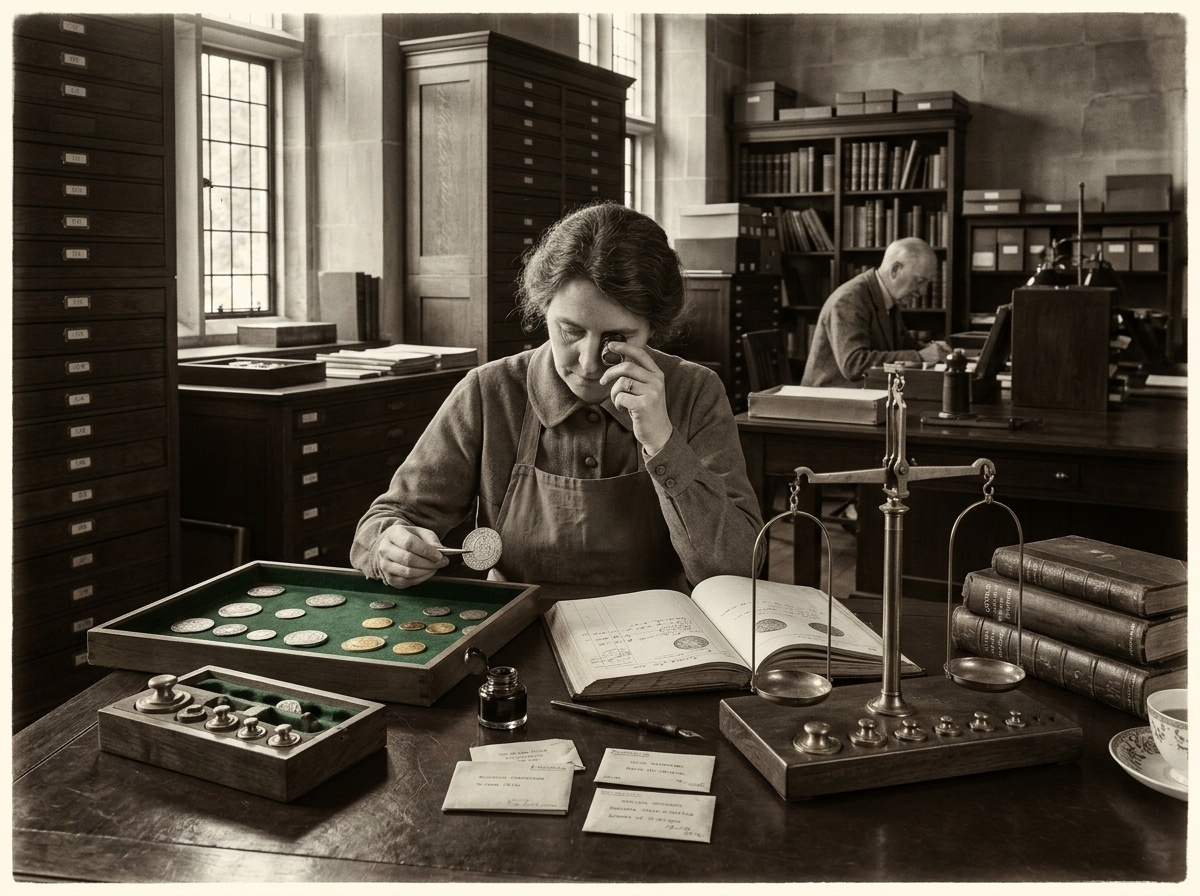
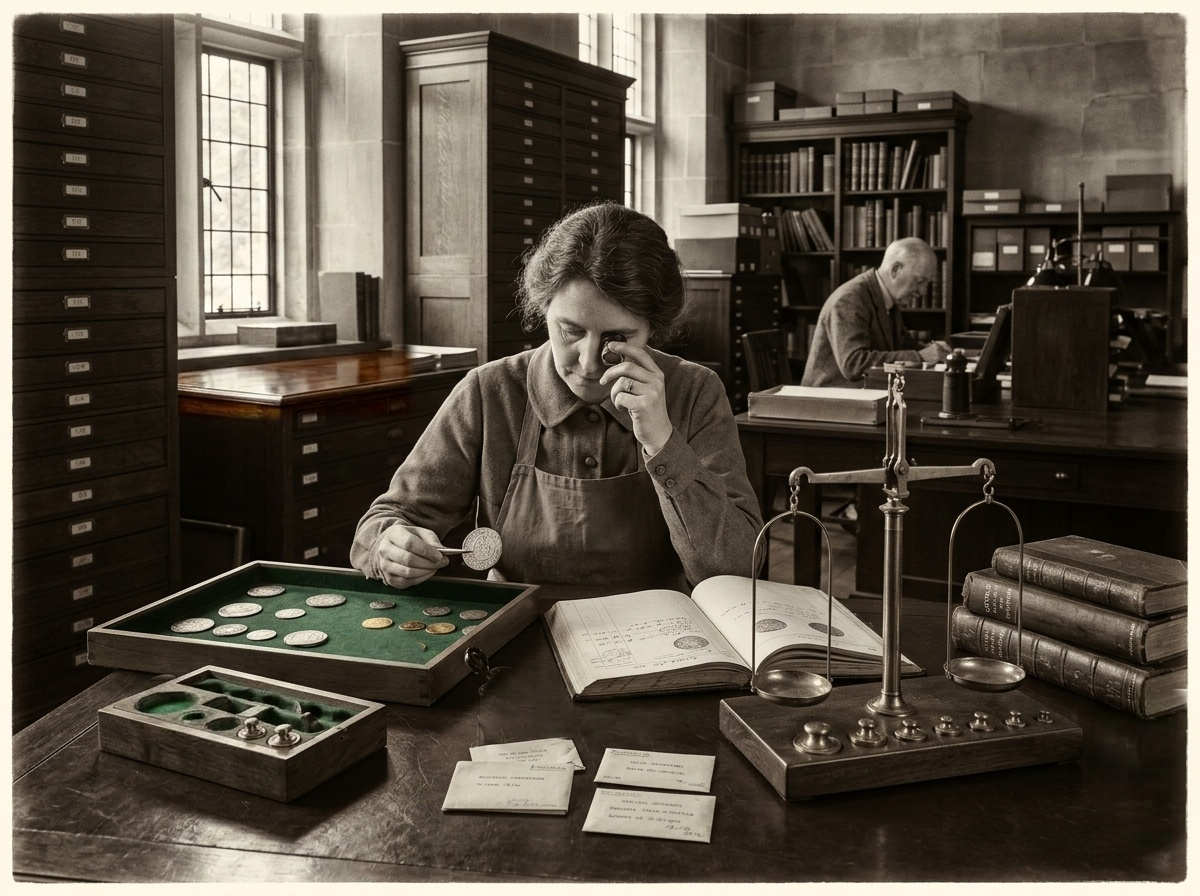
feat(level5): AAA physical archaeological sabotage in Oxford Numismatic Cabinet, 6/6 verified

diff --git a/src/data/levelRegistry.ts b/src/data/levelRegistry.ts
@@ -165,7 +165,7 @@ export function generateAll120Levels(): Level[] {
       : isLevelFour
       ? '/levels/stage1_lvl4_A.jpg?v=2'
       : isLevelFive
-      ? '/levels/stage1_lvl5_A.jpg'
+      ? '/levels/stage1_lvl5_A.jpg?v=2'
       : isLevelSix
       ? '/levels/stage1_lvl6_A.jpg'
       : isLevelSeven
@@ -448,7 +448,7 @@ export function generateAll120Levels(): Level[] {
       : isLevelFour
       ? '/levels/stage1_lvl4_B.jpg?v=2'
       : isLevelFive
-      ? '/levels/stage1_lvl5_B.jpg'
+      ? '/levels/stage1_lvl5_B.jpg?v=2'
       : isLevelSix
       ? '/levels/stage1_lvl6_B.jpg'
       : isLevelSeven
@@ -957,16 +957,60 @@ export function generateAll120Levels(): Level[] {
       ];
     } else if (isLevelFive) {
       diffsForLevel = [
-        { id: `lvl${id}_d1`, x: 6.08, y: 13.62, radius: 4.0, name: "Il Porta-cartellino in Ottone del Cassetto 125", loreClue: "La piastrina in ottone sagomato con il cartellino '125' del cassetto numismatico è stata rimossa, lasciando solo massello di mogano levigato." },
-        { id: `lvl${id}_d2`, x: 17.67, y: 22.10, radius: 3.5, name: "L'Asta di Fermo della Finestra a Rulli", loreClue: "L'asta a compasso in ferro brunito che blocca l'anta della finestra a vetri piombati è stata rimossa senza alterare le traverse." },
-        { id: `lvl${id}_d3`, x: 44.00, y: 22.88, radius: 3.5, name: "Il Cartellino d'Archivio dello Schedario Posteriore", loreClue: "Il cartellino bianco d'inventario sul frontale del cassetto dello schedario sullo sfondo è stato sfilato dal supporto." },
-        { id: `lvl${id}_d4`, x: 87.33, y: 28.46, radius: 3.5, name: "La Chiave in Ottone della Lampada da Scrivania", loreClue: "L'etichetta bianca d'archivio sulla scatola di campionamento conservata sul ripiano dello scaffale è scomparsa." },
-        { id: `lvl${id}_d5`, x: 46.25, y: 49.67, radius: 3.5, name: "Il Bottone in Corno sul Colletto di Tweed", loreClue: "Il bottone sartoriale in corno bruno sul bavero della giacca da lavoro della studiosa si è staccato durante la perizia." },
-        { id: `lvl${id}_d6`, x: 39.58, y: 74.22, radius: 3.5, name: "Il Collare in Ottone del Calamaio di Vetro", loreClue: "L'anello di tenuta in ottone alla base dell'imboccatura del calamaio di cristallo sfaccettato è stato tolto." },
-        { id: `lvl${id}_d7`, x: 53.58, y: 80.92, radius: 3.5, name: "La Ghiera Argentata della Cannuccia da Scrittura", loreClue: "La ghiera metallica che fissa il fusto tornito in ebano della cannuccia da scrittura al pennino appare rimossa." },
-        { id: `lvl${id}_d8`, x: 65.83, y: 53.01, radius: 3.5, name: "Il Gancio a S del Piatto Sinistro della Bilancia", loreClue: "La maglia ad 'S' in ottone che sospende i tre tiranti del piatto di pesata sinistro al braccio della bilancia è stata staccata." },
-        { id: `lvl${id}_d9`, x: 83.33, y: 68.64, radius: 3.5, name: "La Nervatura Dorata sul Dorso del Tomo Numismatico", loreClue: "Uno dei rilievi impressi a caldo con filetti dorati sulla costolatura in cuoio del volume di numismatica coloniale è stato raschiato." },
-        { id: `lvl${id}_d10`, x: 87.33, y: 79.80, radius: 3.5, name: "Il Quinto Peso di Precisione sulla Base della Bilancia", loreClue: "Il più piccolo dei pesi a bottone in ottone alloggiati negli incavi della base in mogano della bilancia è scomparso." },
+        {
+          id: `lvl${id}_d1`,
+          x: 24.71,
+          y: 41.74,
+          radius: 9.5,
+          clueType: 'stolen_relic',
+          name: "La Cassetta d'Archivio sul Bancone",
+          loreClue: "La cassetta in rovere con le schede d'inventario delle monete coloniali è stata asportata dal bancone sotto la finestra."
+        },
+        {
+          id: `lvl${id}_d2`,
+          x: 16.62,
+          y: 79.02,
+          radius: 7.5,
+          clueType: 'stolen_relic',
+          name: "I Grandi Pesi d'Ottone nel Cofanetto",
+          loreClue: "I pesi calibratori in ottone per la tara dei metalli preziosi sono stati trafugati dal cofanetto foderato in velluto."
+        },
+        {
+          id: `lvl${id}_d3`,
+          x: 32.30,
+          y: 72.20,
+          radius: 5.5,
+          clueType: 'stolen_relic',
+          name: "I Due Dobloni d'Oro di Potosí",
+          loreClue: "I due rari dobloni coloniali recanti il punzone segreto del Serpente a Due Teste sono stati sottratti dal vassoio di velluto."
+        },
+        {
+          id: `lvl${id}_d4`,
+          x: 41.92,
+          y: 78.63,
+          radius: 5.0,
+          clueType: 'stolen_relic',
+          name: "Il Calamaio di Cristallo Nero",
+          loreClue: "Il calamaio d'archivio a coperchio ribaltabile contenente l'inchiostro al ferro-gallico è scomparso dal tavolo."
+        },
+        {
+          id: `lvl${id}_d5`,
+          x: 51.17,
+          y: 80.25,
+          radius: 5.0,
+          clueType: 'stolen_relic',
+          name: "La Cannuccia con Pennino d'Acciaio",
+          loreClue: "L'antico strumento da scrittura in ebano posato davanti al registro di catalogazione è stato asportato."
+        },
+        {
+          id: `lvl${id}_d6`,
+          x: 95.71,
+          y: 86.00,
+          radius: 7.5,
+          clueType: 'stolen_relic',
+          name: "La Tazza in Porcellana con Piattino",
+          loreClue: "La tazza da tè della perita numismatica è stata tolta dal piano in mogano lasciando solo il legno lucidato."
+        },
       ];
     } else if (isLevelSix) {
       diffsForLevel = [

diff --git a/src/data/levelNarratives.ts b/src/data/levelNarratives.ts
@@ -40,10 +40,10 @@ export const LEVEL_NARRATIVES_120: Record<number, LevelStoryData> = {
   },
   5: {
     title: "Il Gabinetto Numismatico",
-    subtitle: "Collezione di Monete Coloniali Spagnole",
-    prologue: "Esamina la collezione di dobloni d'oro e reales coniate a Lima e Potosí per individuare il punzone segreto dei fonditori di Paititi.",
-    resolution: "Una moneta d'argento grezza reca il punzone del Serpente a Due Teste: il metallo proviene dalla miniera segreta degli Antisuyu.",
-    unlockedSecret: "'La purezza dell'argento è del 98%, impossibile per le tecnologie coloniali. È opera diretta degli argentieri reali inca.' - Registro di zecca",
+    subtitle: "Collezione di Monete Coloniali Spagnole • Oxford",
+    prologue: "La Mano Oscura ha violato il Gabinetto Numismatico di Oxford mentre la studiosa esaminava le emissioni di Lima e Potosí. Gli emissari hanno asportato i campioni chiave e gli strumenti di perizia per occultare il punzone del Serpente a Due Teste. Individua le 6 prove fisiche della sottrazione.",
+    resolution: "Hai ricostruito la sequenza del furto: la traccia metallurgica dei dobloni sottratti e il calibro dei pesi confermano che la lega proviene dalla miniera segreta di Paititi, citata nei registri coloniali!",
+    unlockedSecret: "'La purezza dell'oro è al 98%, una raffinatezza ignota ai saggiatori spagnoli del '600: solo gli orafi imperiali di Cusco possedevano questo segreto.' - Registro di zecca numismatica",
   },
   6: {
     title: "L'Osservatorio di Radcliffe",
